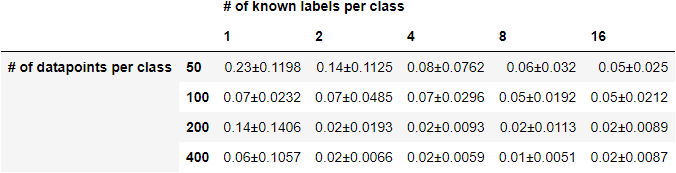
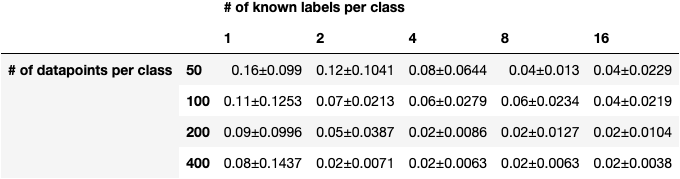
put least squares back in

diff --git a/main.py b/main.py
@@ -5,14 +5,18 @@ import numpy as np
 import pandas as pd
 from scipy.optimize import curve_fit
 
-from src.constants import (DEFAULT_SEED, OUTPUTS_FOLDER, PART_1_DATA_SET_PATH,
-                           PART_1_MINI_TEST_SET_PATH,
-                           PART_1_MINI_TRAIN_SET_PATH)
-from src.models.helpers import (TrainTestData, one_hot_encode,
-                                split_train_test_data)
+from src.constants import (
+    DEFAULT_SEED,
+    OUTPUTS_FOLDER,
+    PART_1_DATA_SET_PATH,
+    PART_1_MINI_TEST_SET_PATH,
+    PART_1_MINI_TRAIN_SET_PATH,
+)
+from src.models.helpers import TrainTestData, one_hot_encode, split_train_test_data
 from src.models.kernels import GaussianKernel, PolynomialKernel
-from src.models.single_class.linear_regression_classifier import \
-    LinearRegressionClassifier
+from src.models.single_class.linear_regression_classifier import (
+    LinearRegressionClassifier,
+)
 from src.models.single_class.one_nn import OneNN
 from src.models.single_class.perceptron import Perceptron
 from src.models.single_class.winnow import Winnow

diff --git a/src/solutions/part_2.py b/src/solutions/part_2.py
@@ -6,8 +6,10 @@ import numpy as np
 import pandas as pd
 
 from src.models.helpers import knn_adjacency_matrix, ssl_data_sample
-from src.models.laplacian_interpolation import (LaplacianInterpolation,
-                                                LaplacianKernelInterpolation)
+from src.models.laplacian_interpolation import (
+    LaplacianInterpolation,
+    LaplacianKernelInterpolation,
+)
 
 outpath = os.path.join("outputs", "part2")
 DATAPATH50 = os.path.join("data", "dtrain13_50.dat")

diff --git a/src/models/laplacian_interpolation.py b/src/models/laplacian_interpolation.py
@@ -17,7 +17,9 @@ class LaplacianInterpolation:
         """
         s = y.shape[0]
         diagonal = np.diag(w.sum(0))
-        return np.sign(np.linalg.pinv(diagonal[s:, s:] - w[s:, s:]) @ (w[s:, :s] @ y))
+        return np.sign(
+            np.linalg.lstsq(diagonal[s:, s:] - w[s:, s:], w[s:, :s] @ y, rcond=None)[0]
+        )
 
 
 class LaplacianKernelInterpolation:
